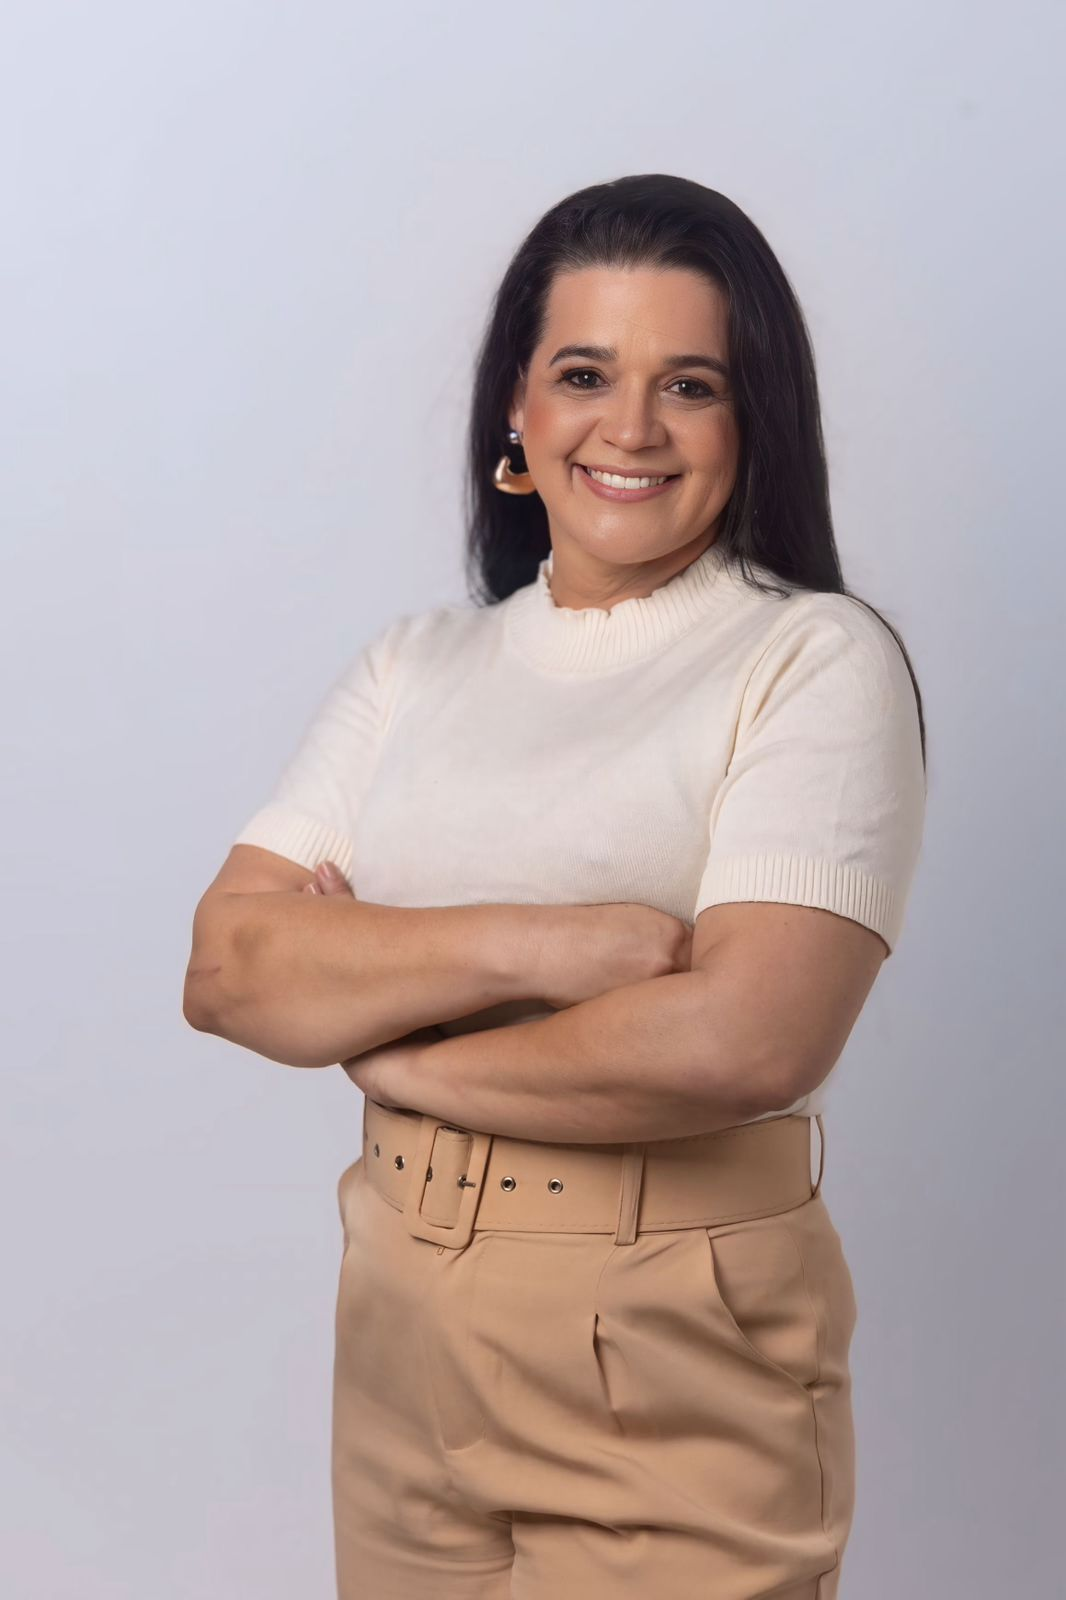
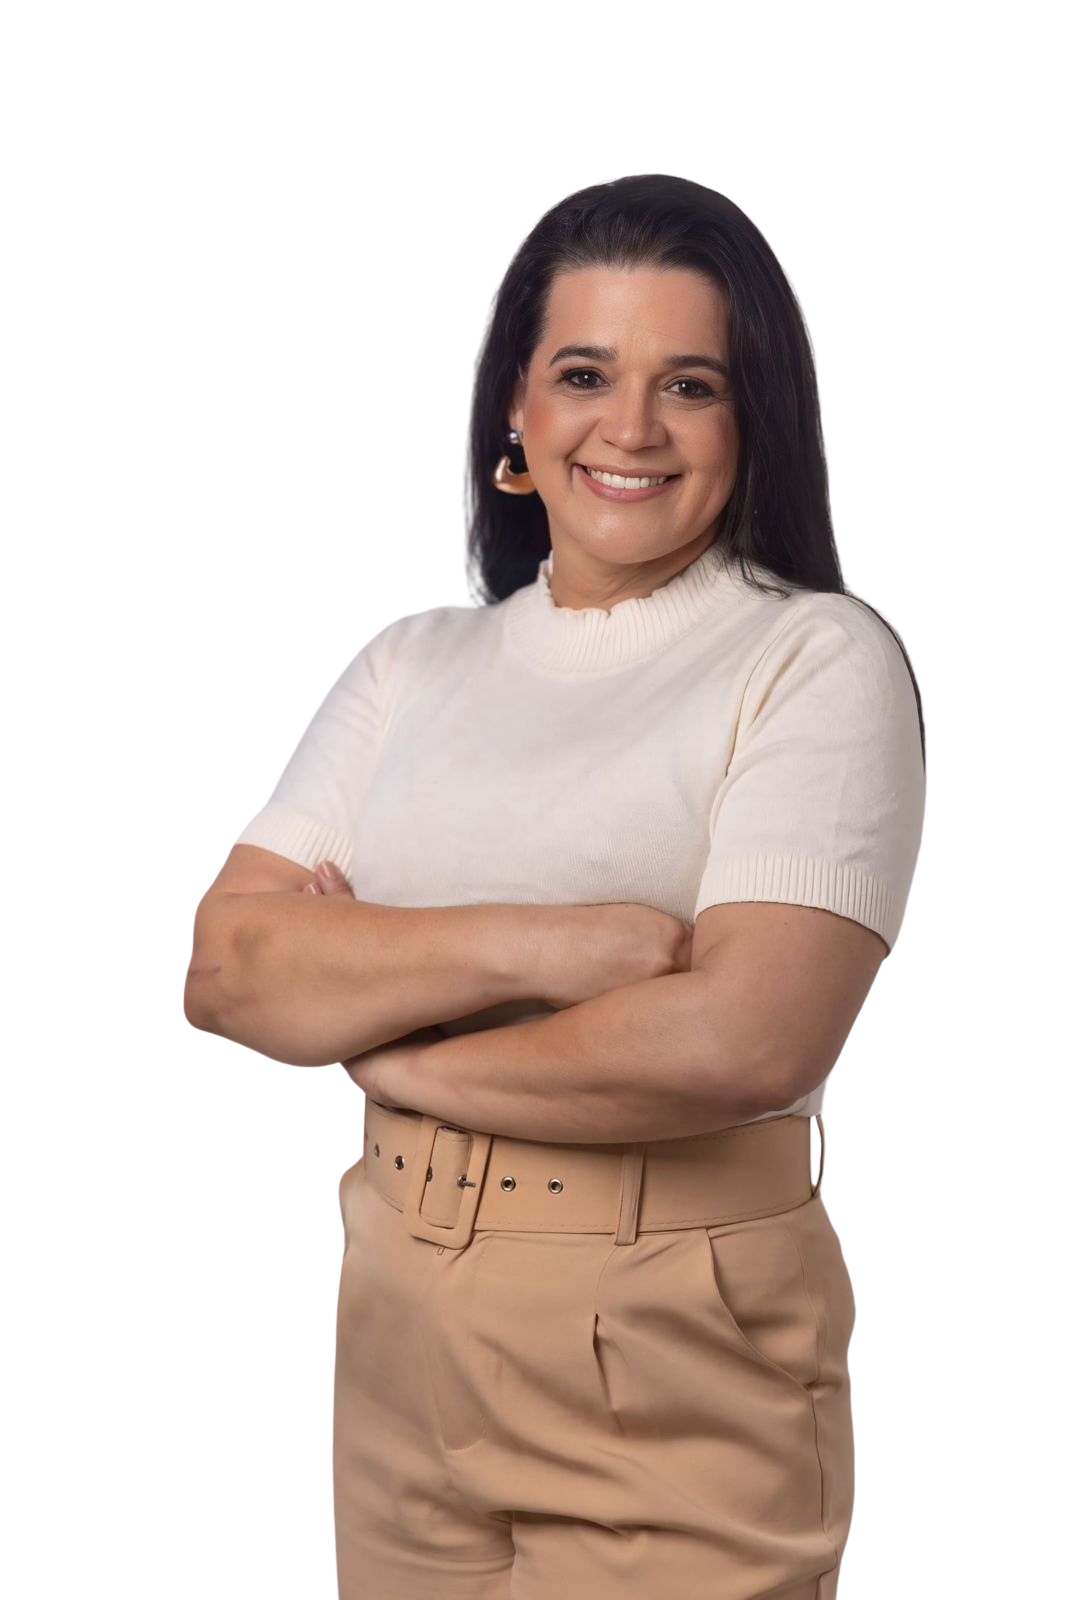
feat: update header and hero sections with new styles, images, and improved responsiveness; refactor animations and layout for better user experience

diff --git a/src/components/sections/header/styles.ts b/src/components/sections/header/styles.ts
@@ -1,10 +1,11 @@
+// Header/styles.js
 import styled, { keyframes } from 'styled-components'
 import { colors, breakpoints } from '../../../../styles'
 
-const slideIn = keyframes`
+const slideDown = keyframes`
   from { 
     opacity: 0; 
-    transform: translateY(-15px); 
+    transform: translateY(-20px); 
   }
   to { 
     opacity: 1; 
@@ -12,33 +13,41 @@ const slideIn = keyframes`
   }
 `
 
+const pulseGlow = keyframes`
+  0% { box-shadow: 0 0 0 0 rgba(184, 154, 122, 0.4); }
+  70% { box-shadow: 0 0 0 10px rgba(184, 154, 122, 0); }
+  100% { box-shadow: 0 0 0 0 rgba(184, 154, 122, 0); }
+`
+
 export const HeaderWrapper = styled.div`
   width: 100%;
-  position: sticky;
+  position: absolute;
   top: 0;
+  left: 0;
   z-index: 1000;
-  box-shadow: 0 4px 12px rgba(0, 0, 0, 0.03);
 `
 
 export const HeaderContainer = styled.header`
-  background-color: rgba(255, 255, 255, 0.95);
-  backdrop-filter: blur(8px);
-  -webkit-backdrop-filter: blur(8px);
-  border-bottom: 1px solid rgba(184, 154, 122, 0.1);
+  background-color: transparent;
+  /* Borda removida para um visual mais limpo e sofisticado */
 
-  /* CORREÇÃO: O comportamento de grid flexível agora se limita à largura máxima do container */
   .content {
     display: flex;
     justify-content: space-between;
     align-items: center;
-    padding-top: 16px;
-    padding-bottom: 16px;
+    padding-top: 24px;
+    padding-bottom: 24px;
   }
 `
 
 export const LogoContainer = styled.a`
   display: flex;
   align-items: center;
+  transition: transform 0.3s ease;
+
+  &:hover {
+    transform: scale(1.02);
+  }
   
   img {
     width: 180px;
@@ -61,26 +70,32 @@ export const Nav = styled.nav<{ isOpen: boolean }>`
   @media (max-width: ${breakpoints.mobile}) {
     display: ${props => (props.isOpen ? 'flex' : 'none')};
     flex-direction: column;
-    position: absolute;
-    top: 100%;
+    position: fixed;
+    top: 0;
     left: 0;
-    width: 100%;
-    background: ${colors.white};
-    padding: 32px 24px;
-    box-shadow: 0 10px 25px rgba(0, 0, 0, 0.08);
-    border-bottom: 2px solid ${colors.primaryTransparent};
-    animation: ${slideIn} 0.25s ease-out;
+    width: 100vw;
+    height: 100vh;
+    background: rgba(248, 245, 240, 0.96);
+    backdrop-filter: blur(20px);
+    -webkit-backdrop-filter: blur(20px);
+    padding: 120px 32px 48px 32px;
+    animation: ${slideDown} 0.4s cubic-bezier(0.16, 1, 0.3, 1);
+    z-index: 999;
+    justify-content: space-between;
+    align-items: center;
+    box-shadow: 0 30px 60px rgba(0, 0, 0, 0.08);
 
     ul {
       flex-direction: column;
       align-items: center;
-      gap: 24px;
+      gap: 28px;
+      width: 100%;
     }
   }
 `
 
 export const HeaderMenuItem = styled.a`
-  color: ${colors.text};
+  color: ${colors.title};
   font-weight: 600;
   font-size: 15px;
   position: relative;
@@ -106,6 +121,20 @@ export const HeaderMenuItem = styled.a`
       width: 100%; 
     }
   }
+
+  @media (max-width: ${breakpoints.mobile}) {
+    font-size: 24px;
+    font-family: 'DM Serif Display', serif;
+    font-weight: 400;
+    letter-spacing: 0.5px;
+    color: ${colors.title};
+    transition: color 0.3s ease, transform 0.3s ease;
+
+    &:hover {
+      color: ${colors.primary};
+      transform: translateY(-2px);
+    }
+  }
 `
 
 export const Actions = styled.div`
@@ -118,7 +147,7 @@ export const HeaderLink = styled.a`
   padding: 12px 24px;
   background-color: ${colors.primaryTransparent};
   color: ${colors.title};
-  border-radius: 50px;
+  border-radius: 18px;
   text-decoration: none;
   font-size: 13px;
   font-weight: 700;
@@ -139,15 +168,25 @@ export const HeaderLink = styled.a`
 
 export const MobileMenu = styled.button`
   display: none;
-  background: none;
-  border: none;
+  background: ${colors.primaryTransparent};
+  border: 1px solid rgba(184, 154, 122, 0.2);
   cursor: pointer;
   color: ${colors.title};
-  padding: 4px;
-  transition: color 0.2s;
+  width: 48px;
+  height: 48px;
+  border-radius: 16px;
+  transition: all 0.3s cubic-bezier(0.4, 0, 0.2, 1);
+  z-index: 1000;
+  animation: ${pulseGlow} 3s infinite;
 
   &:hover {
-    color: ${colors.primary};
+    background-color: ${colors.primary};
+    color: ${colors.white};
+    transform: scale(1.05);
+  }
+
+  &:active {
+    transform: scale(0.95);
   }
 
   @media (max-width: ${breakpoints.mobile}) {

diff --git a/src/components/sections/hero/styles.ts b/src/components/sections/hero/styles.ts
@@ -1,40 +1,62 @@
+// Hero/styles.js
 import styled from 'styled-components'
 import { colors, breakpoints } from '../../../../styles'
+import BackgroundImage from '../../../assets/images/background2.png'
+import BackgroundMobile from '../../../assets/images/background1-mobile.png'
 
 export const HeroSection = styled.section`
-  padding: 80px 0;
+  min-height: 88vh;
+  display: flex;
+  align-items: center;
+  padding: 140px 0 60px 0;
   overflow: hidden;
+  background-image: url(${BackgroundImage});
+  background-size: cover;
+  background-position: center;
+  position: relative;
 
   @media (max-width: ${breakpoints.tablet}) {
-    padding: 40px 0;
+    min-height: 82vh;
+    padding: 110px 0 0 0;
+    background-image: url(${BackgroundMobile});
+    display: flex;
+    flex-direction: column;
+    justify-content: flex-start;
   }
 `
 
 export const HeroContent = styled.div`
   display: grid;
   grid-template-columns: 1fr 1fr;
-  align-items: center; /* CORREÇÃO: Alinha verticalmente os elementos de forma simétrica */
+  align-items: center;
   gap: 40px;
+  width: 100%;
 
   @media (max-width: ${breakpoints.tablet}) {
     grid-template-columns: 1fr;
     text-align: center;
+    display: flex;
+    flex-direction: column;
   }
 `
 
 export const HeroTitle = styled.h1`
-  font-size: 46px;
+  font-family: 'DM Serif Display', serif;
+  font-size: 52px;
   line-height: 1.15;
   color: ${colors.title};
-  font-weight: 800;
+  font-weight: 400;
   margin-bottom: 24px;
 
   span {
+    font-family: 'DM Serif Display', serif;
     color: ${colors.primary};
+    display: block;
   }
 
   @media (max-width: ${breakpoints.tablet}) {
     font-size: 32px;
+    margin-bottom: 12px;
   }
 `
 
@@ -42,12 +64,14 @@ export const HeroDescription = styled.p`
   font-size: 18px;
   line-height: 1.6;
   color: ${colors.text};
-  margin-bottom: 32px;
+  margin-bottom: 24px;
   max-width: 480px;
 
   @media (max-width: ${breakpoints.tablet}) {
-    font-size: 16px;
-    margin: 0 auto 24px;
+    font-size: 14px;
+    margin: 0 auto 16px;
+    max-width: 100%;
+    line-height: 1.5;
   }
 `
 
@@ -57,10 +81,10 @@ export const HeroButton = styled.a`
   gap: 12px;
   background-color: ${colors.primary};
   color: #fff;
-  padding: 16px 32px;
+  padding: 14px 28px;
   border-radius: 18px;
   font-weight: 700;
-  font-size: 16px;
+  font-size: 15px;
   text-decoration: none;
   transition: all 0.3s ease;
   box-shadow: 0 10px 20px ${colors.primary}40;
@@ -74,13 +98,15 @@ export const HeroButton = styled.a`
   @media (max-width: ${breakpoints.tablet}) {
     width: 100%;
     justify-content: center;
+    padding: 12px 24px;
+    font-size: 14px;
   }
 `
 
 export const HeroBadges = styled.div`
   display: flex;
   gap: 16px;
-  margin-top: 24px;
+  margin-top: 20px;
   flex-wrap: wrap;
 
   .badge {
@@ -99,27 +125,44 @@ export const HeroBadges = styled.div`
   @media (max-width: ${breakpoints.tablet}) {
     justify-content: center;
     gap: 12px;
-    margin-top: 20px;
+    margin-top: 14px;
+    margin-bottom: 0px;
   }
 `
 
 export const ImageContainer = styled.div`
-  position: relative;
+  position: absolute;
+  bottom: 0;
+  right: 6%;
+  width: 42%;
+  max-width: 500px;
   display: flex;
   justify-content: center;
+  z-index: 2;
 
   img {
     width: 100%;
-    max-width: 400px;
     height: auto;
-    border-radius: 18px;
+    max-height: 82vh;
+    object-fit: contain;
+    object-position: bottom;
+    display: block;
   }
 
   @media (max-width: ${breakpoints.tablet}) {
-    grid-row: 1;
-    
+    position: absolute;
+    bottom: 0;
+    left: 0;
+    width: 100%;
+    max-width: 100%;
+    margin: 0;
+    display: flex;
+    justify-content: center;
+
     img {
-      max-width: 280px;
+      max-height: 38vh;
+      object-fit: contain;
+      object-position: bottom;
     }
   }
 `

diff --git a/src/components/sections/hero/index.tsx b/src/components/sections/hero/index.tsx
@@ -1,7 +1,8 @@
+// Hero.jsx
 import { motion } from 'framer-motion'
 import * as S from './styles'
 import HeroImage from '../../../assets/images/heroImage2.jpeg'
-import { MessageCircle, ShieldCheck, Video, ShieldAlert } from 'lucide-react'
+import { MessageCircle, ShieldCheck, Video } from 'lucide-react'
 
 export const Hero = () => {
   return (
@@ -15,10 +16,10 @@ export const Hero = () => {
             viewport={{ once: true }}
           >
             <S.HeroTitle>
-              Um espaço seguro para cuidar da sua <span>saúde emocional</span>.
+              Cuidado que acolhe. <span>Terapia que transforma.</span>
             </S.HeroTitle>
             <S.HeroDescription>
-              Ajudo você a enfrentar a ansiedade, o estresse e os desafios da vida com mais equilíbrio e qualidade de vida.
+              Psicoterapia para adultos e adolescentes que enfrentam ansiedade, estresse, dificuldades nos relacionamentos e outros desafios da vida.
             </S.HeroDescription>
             
             <S.HeroButton 
@@ -30,7 +31,6 @@ export const Hero = () => {
               Agende sua primeira sessão
             </S.HeroButton>
 
-            {/* Selos de conversão e segurança logo abaixo do CTA */}
             <S.HeroBadges>
               <div className="badge">
                 <Video size={16} />
@@ -45,9 +45,9 @@ export const Hero = () => {
 
           <S.ImageContainer
             as={motion.div}
-            initial={{ opacity: 0, scale: 0.9 }}
-            whileInView={{ opacity: 1, scale: 1 }}
-            transition={{ duration: 0.8, delay: 0.2 }}
+            initial={{ opacity: 0, y: 50, scale: 0.9 }}
+            whileInView={{ opacity: 1, y: 0, scale: 1 }}
+            transition={{ duration: 0.8, delay: 0.4, ease: [0.6, -0.05, 0.01, 0.99] }}
             viewport={{ once: true }}
           >
             <img src={HeroImage} alt="Imagem de equilíbrio emocional - Psicologia" />

diff --git a/index.html b/index.html
@@ -21,7 +21,7 @@
 
     <link rel="preconnect" href="https://fonts.googleapis.com">
     <link rel="preconnect" href="https://fonts.gstatic.com" crossorigin>
-    <link href="https://fonts.googleapis.com/css2?family=Montserrat:ital,wght@0,400;0,700;1,400;1,700&family=Nunito:ital,wght@0,400;0,700;1,400;1,700&display=swap" rel="stylesheet">
+    <link href="https://fonts.googleapis.com/css2?family=DM+Serif+Display:ital@0;1&family=Montserrat:ital,wght@0,100..900;1,100..900&display=swap" rel="stylesheet">
     <link href="https://cdn.jsdelivr.net/npm/remixicon@4.3.0/fonts/remixicon.css" rel="stylesheet">
 
     <script async src="https://www.googletagmanager.com/gtag/js?id=AW-17738258787"></script>

diff --git a/src/components/sections/header/index.tsx b/src/components/sections/header/index.tsx
@@ -1,3 +1,4 @@
+// Header.jsx
 import { useState } from 'react'
 import * as S from './styles'
 import logo from '../../../assets/images/logo.png'